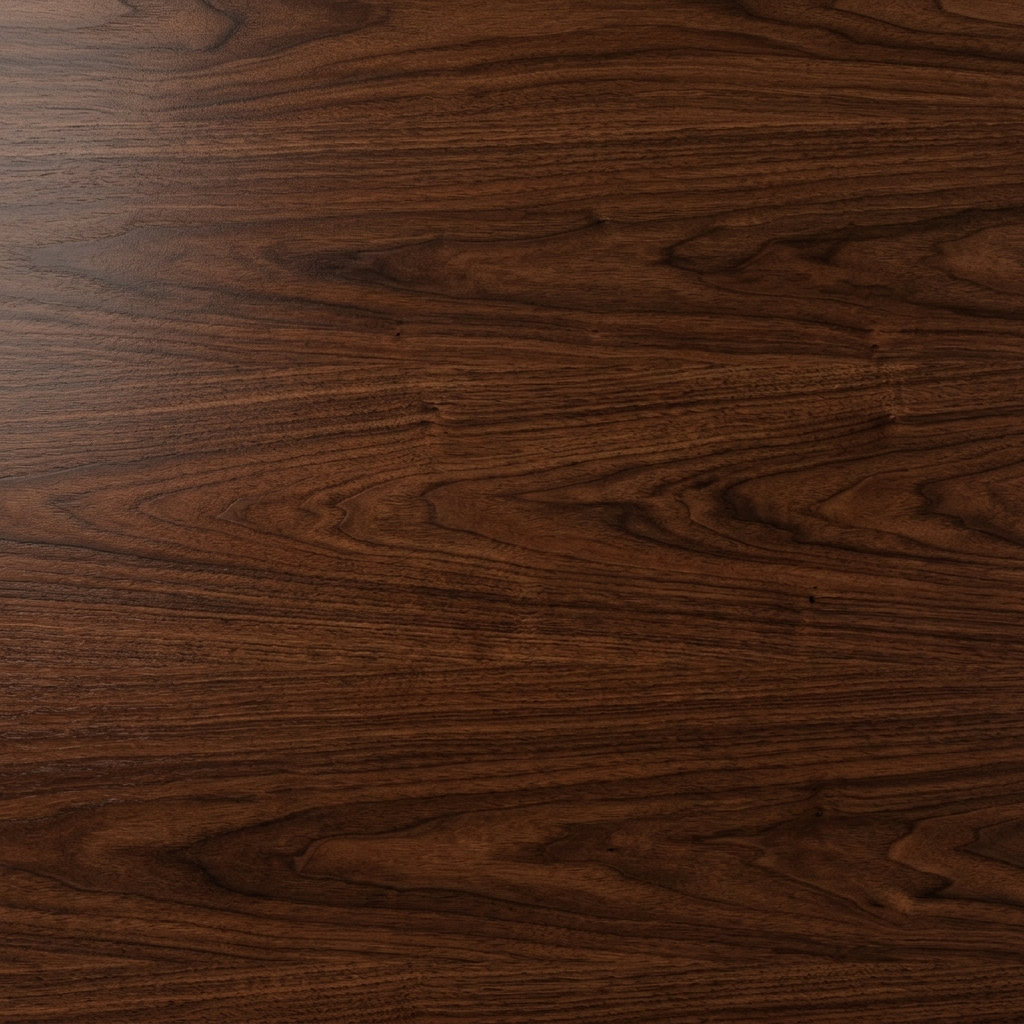
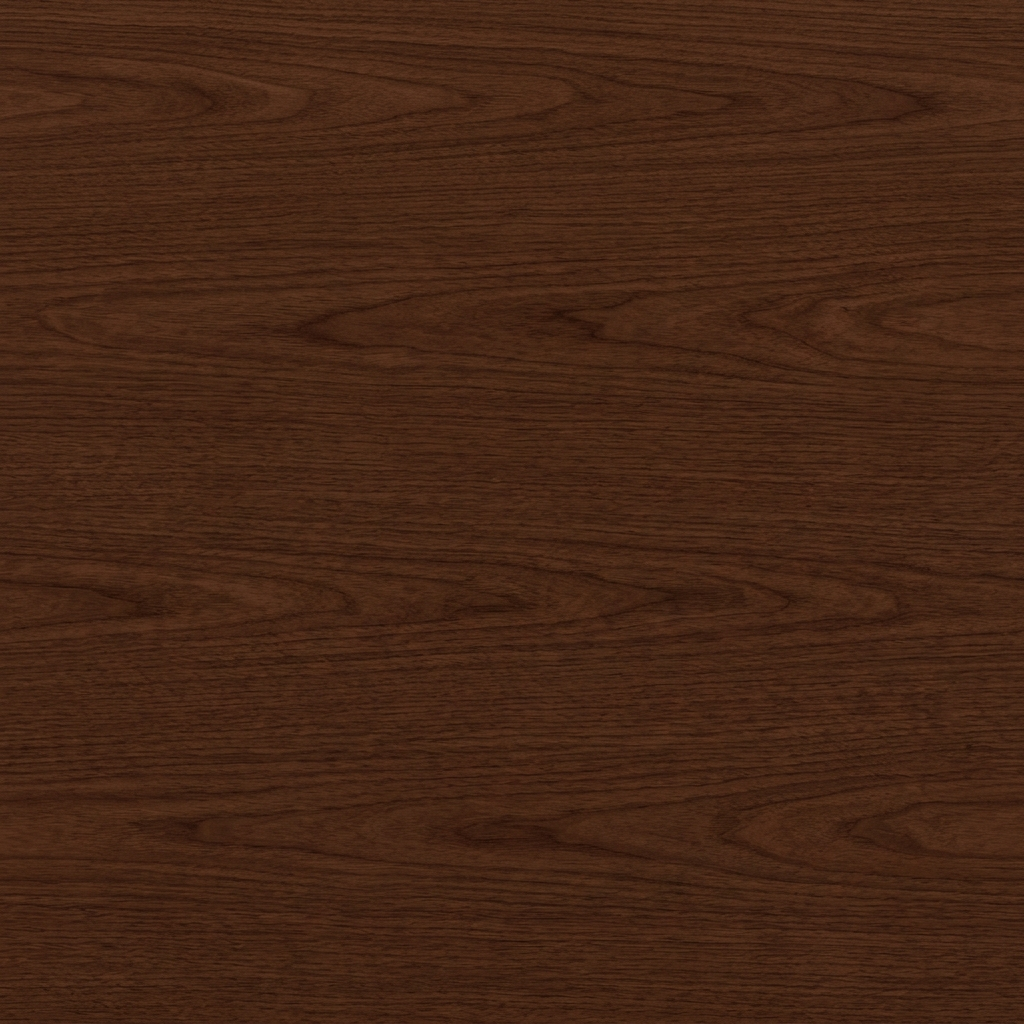
fix(ui): polish workshop immersion and camera snapping
- Regenerated wood texture with perfectly flat/uniform lighting to eliminate tiling gradients
- Added a physical 3D mesh for the drafting lamp so the light isn't coming from nowhere
- Centered the main spotlight to perfectly illuminate the map space
- Constrained camera zoom radii so users cannot zoom out into the infinite void
- Reduced table size and converted it to a 3D box with thickness for true board realism
- Upgraded Orientation button to actively snap the camera back to a perfect front-facing or top-down view

diff --git a/src/main.js b/src/main.js
@@ -60,16 +60,26 @@ async function initBabylon() {
     camera = new BABYLON.ArcRotateCamera("camera", -Math.PI / 2, Math.PI / 3, 35, BABYLON.Vector3.Zero(), scene);
     camera.attachControl(canvas, true);
     camera.wheelPrecision = 20;
+    camera.lowerRadiusLimit = 10;
+    camera.upperRadiusLimit = 40;
 
     // Ambient Room Light (Uniform default)
     const ambientLight = new BABYLON.HemisphericLight("ambientLight", new BABYLON.Vector3(0, 1, 0), scene);
     ambientLight.intensity = 0.5;
     ambientLight.groundColor = new BABYLON.Color3(0.2, 0.2, 0.2);
 
-    // Main Studio Lamp (SpotLight from top center/left)
-    light = new BABYLON.SpotLight("lampLight", new BABYLON.Vector3(-5, 20, -5), new BABYLON.Vector3(0.2, -1, 0.2), Math.PI / 2, 2, scene);
+    // Main Studio Lamp (SpotLight centered over the map)
+    light = new BABYLON.SpotLight("lampLight", new BABYLON.Vector3(0, 18, 0), new BABYLON.Vector3(0, -1, 0), Math.PI / 2, 2, scene);
     light.intensity = 1.0;
     light.diffuse = new BABYLON.Color3(1, 1, 0.95);
+
+    // Lamp Mesh (Visual Representation)
+    const lampMesh = BABYLON.MeshBuilder.CreateCylinder("lampMesh", {height: 2, diameterTop: 3, diameterBottom: 4}, scene);
+    lampMesh.position = new BABYLON.Vector3(0, 19, 0);
+    const lampMat = new BABYLON.StandardMaterial("lampMat", scene);
+    lampMat.diffuseColor = new BABYLON.Color3(0.1, 0.1, 0.1);
+    lampMat.emissiveColor = new BABYLON.Color3(0.5, 0.5, 0.4);
+    lampMesh.material = lampMat;
 
     // Candle Light (PointLight, flickering - disabled by default)
     const candleLight = new BABYLON.PointLight("candleLight", new BABYLON.Vector3(14, 1.5, 10), scene);
@@ -85,12 +95,13 @@ async function initBabylon() {
     const candleShadows = new BABYLON.ShadowGenerator(512, candleLight);
     candleShadows.usePercentageCloserFiltering = true;
 
-    // The Workshop Table (Large Ground)
-    const table = BABYLON.MeshBuilder.CreateGround("workshopTable", {width: 60, height: 40}, scene);
+    // The Workshop Table (Thick Box for 3D realism)
+    const table = BABYLON.MeshBuilder.CreateBox("workshopTable", {width: 34, height: 2, depth: 22}, scene);
+    table.position.y = -1; // Top surface at y=0
     const tableMat = new BABYLON.StandardMaterial("tableMat", scene);
     const woodTex = new BABYLON.Texture("/wood.jpg", scene);
-    woodTex.uScale = 4;
-    woodTex.vScale = 4;
+    woodTex.uScale = 2;
+    woodTex.vScale = 2;
     tableMat.diffuseTexture = woodTex;
     tableMat.specularColor = new BABYLON.Color3(0.1, 0.05, 0.02);
     table.material = tableMat;
@@ -98,7 +109,7 @@ async function initBabylon() {
 
     // The Map Canvas (Parchment Paper resting on table)
     baseMap = BABYLON.MeshBuilder.CreateGround("baseMap", {width: 24, height: 16, subdivisions: 128}, scene);
-    baseMap.position.y = 0.05; // Hover slightly above table
+    baseMap.position.y = 0.02; // Hover slightly above table
     baseMat = new BABYLON.StandardMaterial("baseMat", scene);
     baseMat.diffuseColor = new BABYLON.Color3(0.94, 0.9, 0.82); // Parchment
     baseMat.specularColor = new BABYLON.Color3(0.05, 0.05, 0.05);
@@ -108,23 +119,23 @@ async function initBabylon() {
     shadowGenerator.addShadowCaster(baseMap);
     candleShadows.addShadowCaster(baseMap);
 
-    // Cartography Props around the perimeter
+    // Cartography Props around the perimeter (adjusted for smaller table)
     const inkwell = BABYLON.MeshBuilder.CreateCylinder("inkwell", {height: 1.5, diameter: 1.0}, scene);
-    inkwell.position = new BABYLON.Vector3(14, 0.75, 10);
+    inkwell.position = new BABYLON.Vector3(14, 0.75, 8);
     const inkMat = new BABYLON.StandardMaterial("inkMat", scene);
     inkMat.diffuseColor = new BABYLON.Color3(0.1, 0.1, 0.15);
     inkMat.specularColor = new BABYLON.Color3(0.8, 0.8, 0.8);
     inkwell.material = inkMat;
 
     const ruler = BABYLON.MeshBuilder.CreateBox("ruler", {width: 10, height: 0.05, depth: 1}, scene);
-    ruler.position = new BABYLON.Vector3(-14, 0.025, -9);
+    ruler.position = new BABYLON.Vector3(-13, 0.025, -9);
     ruler.rotation.y = Math.PI / 6;
     const rulerMat = new BABYLON.StandardMaterial("rulerMat", scene);
     rulerMat.diffuseColor = new BABYLON.Color3(0.6, 0.5, 0.3); // Wood/brass
     ruler.material = rulerMat;
 
     const compass = BABYLON.MeshBuilder.CreateTorus("compass", {diameter: 2, thickness: 0.2}, scene);
-    compass.position = new BABYLON.Vector3(-13, 0.1, 9);
+    compass.position = new BABYLON.Vector3(-14, 0.1, 7);
     const compassMat = new BABYLON.StandardMaterial("compMat", scene);
     compassMat.diffuseColor = new BABYLON.Color3(0.8, 0.7, 0.2); // Brass
     compassMat.specularColor = new BABYLON.Color3(1, 1, 0.8);
@@ -167,11 +178,22 @@ async function initBabylon() {
     if (toggleBtn) {
       toggleBtn.addEventListener("click", () => {
         isLandscape = !isLandscape;
+        
+        // Reset and snap camera to perfectly frame the map
+        camera.setTarget(BABYLON.Vector3.Zero());
+        
         if (isLandscape) {
           baseMap.scaling = new BABYLON.Vector3(1, 1, 1);
+          camera.alpha = -Math.PI / 2;
+          camera.beta = Math.PI / 3;
+          camera.radius = 30;
         } else {
           // Portrait mode: scale X down, scale Z up
           baseMap.scaling = new BABYLON.Vector3(16/24, 1, 24/16);
+          // Snap camera to look perfectly straight down
+          camera.alpha = -Math.PI / 2;
+          camera.beta = 0.01; // Avoid exact 0 to prevent gimbal lock
+          camera.radius = 35;
         }
       });
     }